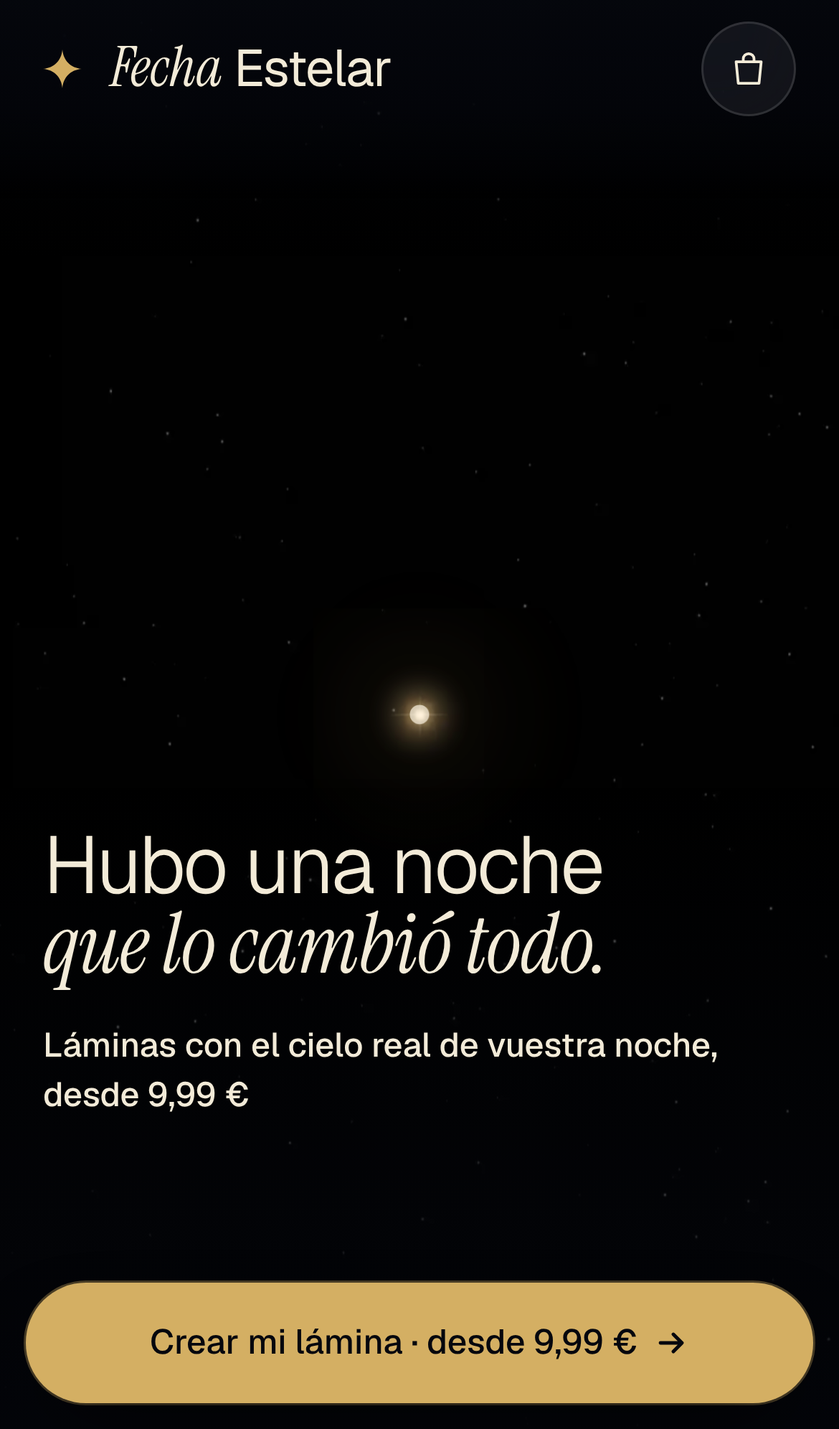
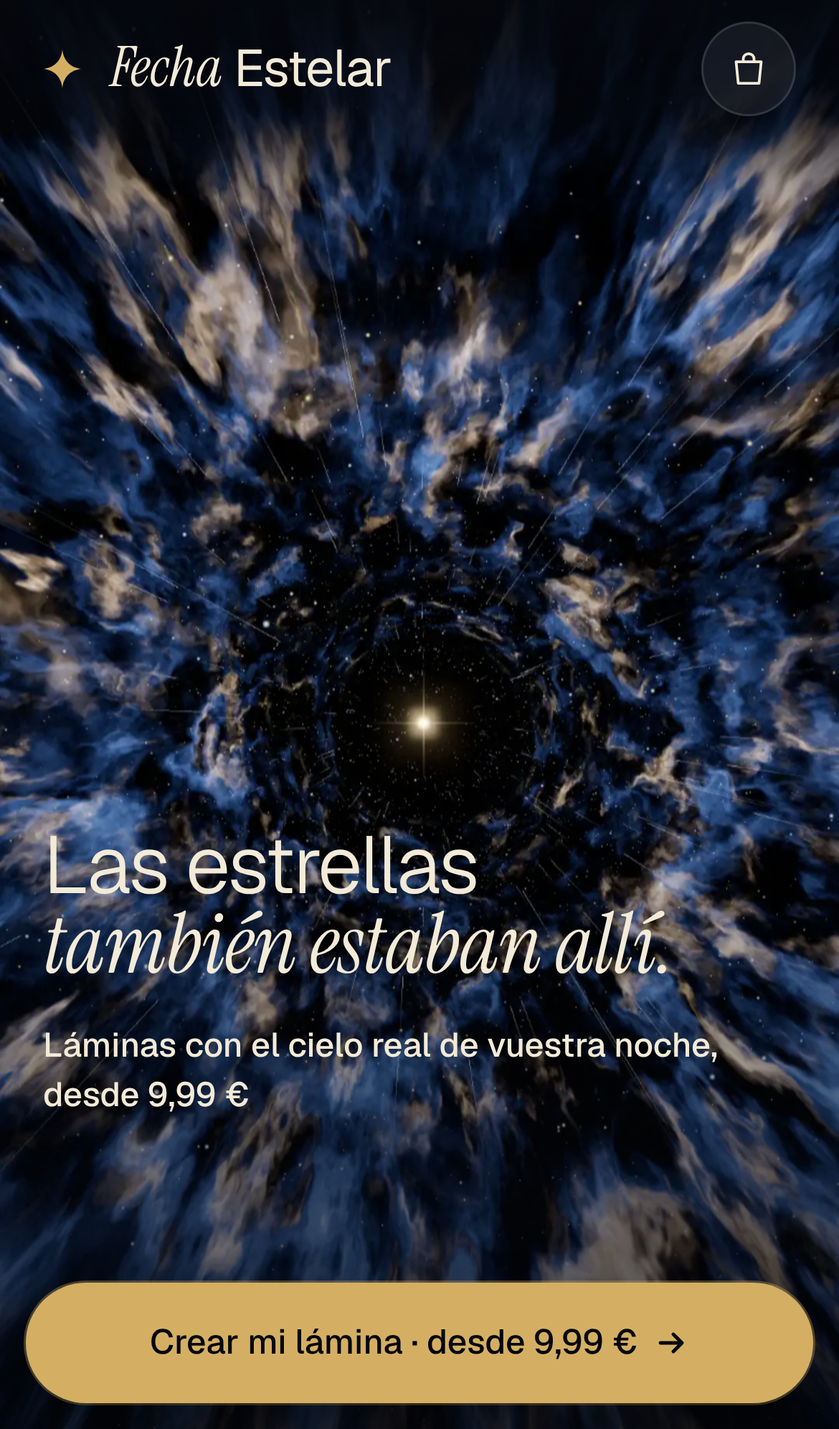
Journey opens in the star tunnel and runs in three screens (tunnel, Sun, Earth, sky, lámina)
Claude-Session: https://claude.ai/code/session_01FQHigv7GHbskPQEY8pBHfx

diff --git a/theme/assets/fe-app.js b/theme/assets/fe-app.js
@@ -1,5 +1,5 @@
-import{a as nt,b as at,d as it,e as rt,h as st,i as ot,k as j}from"./fe-chunk-WFGGIIFG.js";import bt from"lenis";import{gsap as K}from"gsap";import{ScrollTrigger as X}from"gsap/ScrollTrigger";var G=class{constructor(t,{maxFrames:i=1/0,onFrame:n}={}){this.url=t,this.maxFrames=i,this.onFrame=n,this.blobs=[],this.count=0,this.loaded=0,this.width=0,this.height=0,this.abort=new AbortController}async load(){let t=await fetch(this.url,{signal:this.abort.signal});if(!t.ok||!t.body)throw new Error("pack "+t.status);let i=t.body.getReader(),n=new Uint8Array(0),a=!1;for(;;){let{value:o,done:r}=await i.read();if(o){let l=new Uint8Array(n.length+o.length);l.set(n),l.set(o,n.length),n=l}let s=0;if(!a&&n.length>=10){if(String.fromCharCode(n[0],n[1],n[2],n[3])!=="FEPK")throw new Error("bad pack");let l=new DataView(n.buffer,n.byteOffset,n.byteLength);this.count=l.getUint16(4,!0),this.width=l.getUint16(6,!0),this.height=l.getUint16(8,!0),this.blobs=new Array(this.count).fill(null),a=!0,s=10}if(a){let l=new DataView(n.buffer,n.byteOffset,n.byteLength);for(;n.length-s>=6;){let w=l.getUint16(s,!0),b=l.getUint32(s+2,!0);if(n.length-s-6<b)break;if(this.blobs[w]=new Blob([n.subarray(s+6,s+6+b)],{type:"image/webp"}),s+=6+b,this.loaded++,this.onFrame?.(w),this.loaded>=this.maxFrames)return this.abort.abort(),this}n=n.slice(s)}if(r)break}return this}nearestLoaded(t){if(this.blobs[t])return t;for(let i=1;i<this.count;i++){if(this.blobs[t-i])return t-i;if(this.blobs[t+i])return t+i}return-1}},V=class{constructor(t,{cache:i=12}={}){this.canvas=t,this.ctx=t.getContext("2d",{alpha:!1}),this.pack=null,this.t=0,this.drawn=-1,this.cacheSize=i,this.bitmaps=new Map,this.pending=new Map,this.onReady=null,this.resize()}resize(){let t=Math.min(window.devicePixelRatio||1,2),i=this.canvas.getBoundingClientRect();this.canvas.width=Math.max(1,Math.round(i.width*t)),this.canvas.height=Math.max(1,Math.round(i.height*t)),this.flush(),this.drawn=-1,this.draw(this.t)}setPack(t){this.pack=t,this.flush(),this.drawn=-1}flush(){for(let t of this.bitmaps.values())t.close?.();this.bitmaps.clear()}target(){let t=this.pack,{width:i,height:n}=this.canvas,a=Math.min(1,Math.max(i/t.width,n/t.height));return{w:Math.round(t.width*a),h:Math.round(t.height*a)}}decode(t){if(this.bitmaps.has(t)||this.pending.has(t)||!this.pack.blobs[t])return;let{w:i,h:n}=this.target(),a=this.pack.blobs[t],o=createImageBitmap(a,{resizeWidth:i,resizeHeight:n,resizeQuality:"medium"}).catch(()=>createImageBitmap(a)).then(r=>{this.pending.delete(t),this.bitmaps.set(t,r),this.evict(),this.onReady?.(t)}).catch(()=>this.pending.delete(t));this.pending.set(t,o)}evict(){if(this.bitmaps.size<=this.cacheSize)return;let t=Math.round(this.t*(this.pack.count-1)),i=[...this.bitmaps.keys()].sort((n,a)=>Math.abs(a-t)-Math.abs(n-t));for(;this.bitmaps.size>this.cacheSize&&i.length;){let n=i.shift();n!==this.drawn&&(this.bitmaps.get(n)?.close?.(),this.bitmaps.delete(n))}}draw(t){let i=this.pack,n=t>=this.t?1:-1;if(this.t=t,!i||!i.count)return;let a=i.nearestLoaded(Math.round(t*(i.count-1)));if(a<0)return;this.decode(a);for(let d=1;d<=3;d++){let y=i.nearestLoaded(a+n*d);y>=0&&this.decode(y)}let o=a;if(!this.bitmaps.has(o)){let d=-1,y=1/0;for(let g of this.bitmaps.keys()){let h=Math.abs(g-a);h<y&&(y=h,d=g)}if(d<0)return;o=d}if(o===this.drawn)return;this.drawn=o;let r=this.bitmaps.get(o),{width:s,height:l}=this.canvas,w=Math.max(s/r.width,l/r.height),b=r.width*w,c=r.height*w;this.ctx.drawImage(r,(s-b)/2,(l-c)/2,b,c)}};var gt="attribute vec2 a; varying vec2 v; void main(){ v=a; gl_Position=vec4(a,0.,1.); }",vt=`precision highp float; varying vec2 v; uniform float uT; uniform float uDetail; uniform float uGain;
-${nt}${at}
+import{a as it,b as rt,d as st,e as ot,h as ct,i as lt,k as G}from"./fe-chunk-WFGGIIFG.js";import wt from"lenis";import{gsap as J}from"gsap";import{ScrollTrigger as j}from"gsap/ScrollTrigger";var V=class{constructor(t,{maxFrames:i=1/0,onFrame:n}={}){this.url=t,this.maxFrames=i,this.onFrame=n,this.blobs=[],this.count=0,this.loaded=0,this.width=0,this.height=0,this.abort=new AbortController}async load(){let t=await fetch(this.url,{signal:this.abort.signal});if(!t.ok||!t.body)throw new Error("pack "+t.status);let i=t.body.getReader(),n=new Uint8Array(0),a=!1;for(;;){let{value:o,done:r}=await i.read();if(o){let l=new Uint8Array(n.length+o.length);l.set(n),l.set(o,n.length),n=l}let s=0;if(!a&&n.length>=10){if(String.fromCharCode(n[0],n[1],n[2],n[3])!=="FEPK")throw new Error("bad pack");let l=new DataView(n.buffer,n.byteOffset,n.byteLength);this.count=l.getUint16(4,!0),this.width=l.getUint16(6,!0),this.height=l.getUint16(8,!0),this.blobs=new Array(this.count).fill(null),a=!0,s=10}if(a){let l=new DataView(n.buffer,n.byteOffset,n.byteLength);for(;n.length-s>=6;){let w=l.getUint16(s,!0),b=l.getUint32(s+2,!0);if(n.length-s-6<b)break;if(this.blobs[w]=new Blob([n.subarray(s+6,s+6+b)],{type:"image/webp"}),s+=6+b,this.loaded++,this.onFrame?.(w),this.loaded>=this.maxFrames)return this.abort.abort(),this}n=n.slice(s)}if(r)break}return this}nearestLoaded(t){if(this.blobs[t])return t;for(let i=1;i<this.count;i++){if(this.blobs[t-i])return t-i;if(this.blobs[t+i])return t+i}return-1}},K=class{constructor(t,{cache:i=12}={}){this.canvas=t,this.ctx=t.getContext("2d",{alpha:!1}),this.pack=null,this.t=0,this.drawn=-1,this.cacheSize=i,this.bitmaps=new Map,this.pending=new Map,this.onReady=null,this.resize()}resize(){let t=Math.min(window.devicePixelRatio||1,2),i=this.canvas.getBoundingClientRect();this.canvas.width=Math.max(1,Math.round(i.width*t)),this.canvas.height=Math.max(1,Math.round(i.height*t)),this.flush(),this.drawn=-1,this.draw(this.t)}setPack(t){this.pack=t,this.flush(),this.drawn=-1}flush(){for(let t of this.bitmaps.values())t.close?.();this.bitmaps.clear()}target(){let t=this.pack,{width:i,height:n}=this.canvas,a=Math.min(1,Math.max(i/t.width,n/t.height));return{w:Math.round(t.width*a),h:Math.round(t.height*a)}}decode(t){if(this.bitmaps.has(t)||this.pending.has(t)||!this.pack.blobs[t])return;let{w:i,h:n}=this.target(),a=this.pack.blobs[t],o=createImageBitmap(a,{resizeWidth:i,resizeHeight:n,resizeQuality:"medium"}).catch(()=>createImageBitmap(a)).then(r=>{this.pending.delete(t),this.bitmaps.set(t,r),this.evict(),this.onReady?.(t)}).catch(()=>this.pending.delete(t));this.pending.set(t,o)}evict(){if(this.bitmaps.size<=this.cacheSize)return;let t=Math.round(this.t*(this.pack.count-1)),i=[...this.bitmaps.keys()].sort((n,a)=>Math.abs(a-t)-Math.abs(n-t));for(;this.bitmaps.size>this.cacheSize&&i.length;){let n=i.shift();n!==this.drawn&&(this.bitmaps.get(n)?.close?.(),this.bitmaps.delete(n))}}draw(t){let i=this.pack,n=t>=this.t?1:-1;if(this.t=t,!i||!i.count)return;let a=i.nearestLoaded(Math.round(t*(i.count-1)));if(a<0)return;this.decode(a);for(let d=1;d<=3;d++){let y=i.nearestLoaded(a+n*d);y>=0&&this.decode(y)}let o=a;if(!this.bitmaps.has(o)){let d=-1,y=1/0;for(let g of this.bitmaps.keys()){let h=Math.abs(g-a);h<y&&(y=h,d=g)}if(d<0)return;o=d}if(o===this.drawn)return;this.drawn=o;let r=this.bitmaps.get(o),{width:s,height:l}=this.canvas,w=Math.max(s/r.width,l/r.height),b=r.width*w,c=r.height*w;this.ctx.drawImage(r,(s-b)/2,(l-c)/2,b,c)}};var bt="attribute vec2 a; varying vec2 v; void main(){ v=a; gl_Position=vec4(a,0.,1.); }",yt=`precision highp float; varying vec2 v; uniform float uT; uniform float uDetail; uniform float uGain;
+${it}${rt}
 vec3 toSRGB(vec3 c){ c=clamp(c,0.,1.); return mix(c*12.92, 1.055*pow(c,vec3(1./2.4))-0.055, step(0.0031308,c)); }
 void main(){
   vec2 p=v*1.06; float r=length(p);
@@ -8,4 +8,4 @@ void main(){
   vec3 c=toSRGB(sunSurface(vec3(p.x,p.y,mu),mu,uT,uDetail)*uGain);
   float a=smoothstep(1.0,0.965,r);
   gl_FragColor=vec4(c*a,a);
-}`,ct=e=>(e=Math.min(1,Math.max(0,e)),e*e*(3-2*e));function lt(e,t,i){let n=document.createElement("canvas");n.className="trip__sun",n.setAttribute("aria-hidden","true"),t.after(n);let a=n.getContext("webgl",{premultipliedAlpha:!0,alpha:!0,antialias:!1});if(!a)return n.remove(),null;let o=(m,x)=>{let M=a.createShader(m);return a.shaderSource(M,x),a.compileShader(M),M},r=a.createProgram();if(a.attachShader(r,o(a.VERTEX_SHADER,gt)),a.attachShader(r,o(a.FRAGMENT_SHADER,vt)),a.linkProgram(r),!a.getProgramParameter(r,a.LINK_STATUS))return n.remove(),null;a.useProgram(r),a.bindBuffer(a.ARRAY_BUFFER,a.createBuffer()),a.bufferData(a.ARRAY_BUFFER,new Float32Array([-1,-1,1,-1,-1,1,1,1]),a.STATIC_DRAW);let s=a.getAttribLocation(r,"a");a.enableVertexAttribArray(s),a.vertexAttribPointer(s,2,a.FLOAT,!1,0,0);let l=a.getUniformLocation(r,"uT"),w=a.getUniformLocation(r,"uDetail"),b=a.getUniformLocation(r,"uGain");a.uniform1f(b,1.2);let c=null,d=0,y=!1,g=0,h=0,f=0,S=0,L={p:0,pack:null};fetch(i).then(m=>m.json()).then(m=>{c=m}).catch(()=>{});let u=m=>{let x=m*(c.frames-1)-c.from,M=c.sun.length;if(x<0||x>M-1)return null;let F=Math.floor(x),T=x-F,A=c.sun[F],I=c.sun[Math.min(M-1,F+1)];return{x:A[0]+(I[0]-A[0])*T,y:A[1]+(I[1]-A[1])*T,r:A[2]+(I[2]-A[2])*T,T:A[3]+(I[3]-A[3])*T,vis:A[4]&&I[4]}},v=m=>{if(d=y?requestAnimationFrame(v):0,!y||m-f<32)return;f=m;let x=u(L.p);if(!x)return;let M=L.pack,F=e.clientWidth,T=e.clientHeight,A=Math.max(F/M.width,T/M.height),I=M.width*A,z=M.height*A,D=(F-I)/2+x.x*I,J=(T-z)/2+x.y*z,p=x.r*z*1.06,R=Math.min(devicePixelRatio||1,1.25),E=Math.ceil(p*2*R);Math.abs(E-S)>S*.08&&(S=E,n.width=n.height=E,a.viewport(0,0,E,E)),n.style.width=n.style.height=`${(p*2).toFixed(1)}px`,n.style.transform=`translate(${(D-p).toFixed(1)}px, ${(J-p).toFixed(1)}px)`,g+=h?(m-h)/1e3:0,h=m,a.uniform1f(l,x.T+g*1.4),a.uniform1f(w,.6*Math.min(1,Math.max(0,(p*2-60)/200))),a.drawArrays(a.TRIANGLE_STRIP,0,4)};return{update(m,x){if(!c||!x?.width)return;L.p=m,L.pack=x;let M=u(m),F=M&&M.vis?ct((m-.462)/.025)*(1-ct((m-.548)/.03)):0;n.style.opacity=F.toFixed(3);let T=F>.001;T&&!y&&(y=!0,h=0,g=0,d||(d=requestAnimationFrame(v))),!T&&y&&(y=!1)}}}K.registerPlugin(X);var k=(e,t=document)=>t.querySelector(e),$=(e,t=document)=>[...t.querySelectorAll(e)],U=(e,t=0,i=1)=>Math.min(i,Math.max(t,e)),dt=e=>e<.5?4*e*e*e:1-Math.pow(-2*e+2,3)/2,ut=e=>matchMedia(e).matches,ft=document.documentElement,C=ut("(prefers-reduced-motion: reduce)"),N=ut("(hover: hover) and (pointer: fine)"),ht=navigator.connection||{},Q=!!ht.saveData||/2g/.test(ht.effectiveType||"");ft.classList.add("fe-js");C&&ft.classList.add("fe-reduced");window.__feBoot=!0;var tt=e=>e.replace(/(\d) (?=€|días|cm|h\b)/g,"$1\xA0");{let e=document.createTreeWalker(document.body,NodeFilter.SHOW_TEXT);for(let t=e.nextNode();t;t=e.nextNode())/\d (€|días|cm|h\b)/.test(t.data)&&(t.data=tt(t.data))}var q=null;!C&&N&&(q=new bt({lerp:.085,smoothWheel:!0}),q.on("scroll",X.update),K.ticker.add(e=>q.raf(e*1e3)),K.ticker.lagSmoothing(0));document.addEventListener("click",e=>{let i=e.target.closest('a[href^="#"]')?.getAttribute("href").slice(1),n=i&&document.getElementById(i);n&&(e.preventDefault(),q?q.scrollTo(n,{duration:1.6,easing:a=>1-Math.pow(1-a,4)}):n.scrollIntoView({behavior:C?"auto":"smooth"}),history.replaceState(null,"","#"+i),n.setAttribute("tabindex","-1"),n.focus({preventScroll:!0}))});function yt(e){let t=k(".lam__card",e),i=0,n=0,a=0,o=0,r=0,s=0,l=null,w=0,b=performance.now(),c=120,d=14,y=h=>{let f=Math.min(.032,(h-b)/1e3);b=h;let S=l?0:Math.sin(h/1600)*3;a+=(c*((l?r:0)+S*.4-i)-d*a)*f,i+=a*f,o+=(c*((l?s:0)+S-n)-d*o)*f,n+=o*f,t.style.transform=`rotateX(${i.toFixed(2)}deg) rotateY(${n.toFixed(2)}deg)`,t.style.setProperty("--sheen",(n/18).toFixed(3)),w=e.hasAttribute("data-live")?requestAnimationFrame(y):0};e.addEventListener("pointerdown",h=>{l={x:h.clientX,y:h.clientY},e.setPointerCapture(h.pointerId)}),e.addEventListener("pointermove",h=>{if(l)s=U((h.clientX-l.x)/6,-24,24),r=U(-(h.clientY-l.y)/8,-14,14);else if(N){let f=e.getBoundingClientRect();r=0,s=0,n+=((h.clientX-f.left)/f.width-.5)*.6}});let g=()=>{l=null};return e.addEventListener("pointerup",g),e.addEventListener("pointercancel",g),{start(){!w&&!C&&(b=performance.now(),w=requestAnimationFrame(y))}}}var Z=[0,.27,.5,.68,.85,1];function wt(e){let t=!1,i=0,n=0,a=0,o=0,r=!1,s=null,l=scrollY,w=1,b=0,c=()=>e.getBoundingClientRect().top+scrollY,d=()=>e.offsetHeight-innerHeight,y=()=>U((scrollY-c())/d()),g=()=>{let u=e.getBoundingClientRect();return u.top<=1&&u.bottom>=innerHeight-1},h=u=>{let v=y();return u>0?Z.find(m=>m>v+.012):[...Z].reverse().find(m=>m<v-.012)},f=u=>{let v=scrollY,m=Math.round(c()+u*d()),x=Math.abs(m-v);if(x<2)return;let M=Math.min(1700,700+x/innerHeight*520);t=!0;let F=()=>{t=!1,b=o=performance.now()};if(q){q.scrollTo(m,{duration:M/1e3,easing:dt,lock:!0,force:!0,onComplete:F});return}let T=performance.now();cancelAnimationFrame(i);let A=I=>{let z=U((I-T)/M);scrollTo(0,v+(m-v)*dt(z)),z<1?i=requestAnimationFrame(A):F()};i=requestAnimationFrame(A)},S=u=>{let v=h(u);return v==null?!1:(f(v),!0)};addEventListener("wheel",u=>{if(u.ctrlKey||!g())return;let v=Math.sign(u.deltaY);if(!v)return;let m=performance.now(),x=m-n,M=Math.abs(u.deltaY),F=x>600&&(a<8||M>=50&&a>=50)||x>1400||x>160&&M>a*1.15||M>a*2&&M>14;n=m,a=M,F&&!t&&m-o>250&&(r=!1),!(!t&&!r&&h(v)==null)&&(u.preventDefault(),u.stopImmediatePropagation(),!t&&!r&&(r=S(v)))},{passive:!1,capture:!0}),addEventListener("touchstart",u=>{s=u.touches.length===1?{x:u.touches[0].clientX,y:u.touches[0].clientY,done:!1,free:!1}:null},{passive:!0}),addEventListener("touchmove",u=>{if(!s||s.free||!g())return;let v=s.y-u.touches[0].clientY,m=s.x-u.touches[0].clientX;if(!s.done&&!t&&Math.abs(v)>2&&h(Math.sign(v))==null){s.free=!0;return}u.cancelable&&u.preventDefault(),!s.done&&!t&&Math.abs(v)>28&&Math.abs(v)>Math.abs(m)*1.2&&(s.done=S(Math.sign(v)))},{passive:!1}),addEventListener("touchend",()=>{s=null},{passive:!0}),addEventListener("scroll",()=>{let u=scrollY;u!==l&&(w=Math.sign(u-l),l=u,b=performance.now())},{passive:!0});let L=()=>{if(requestAnimationFrame(L),t||s||performance.now()-b<170||performance.now()-n<200||!g())return;let u=y();if(Z.some(m=>Math.abs(m-u)<.006))return;let v=h(w)??h(-w);v!=null&&f(v)};requestAnimationFrame(L)}function Mt(e){let t=k(".trip__stage",e),i=k(".trip__film",e),n=k(".lam",e),a=JSON.parse(e.dataset.example);k("[data-lam]",e).innerHTML=j({...a,city:void 0,cityName:a.city,id:"lam"});let o=$("[data-beat]",e);o.forEach(p=>{p.inert=!p.hasAttribute("data-on")});let r=innerHeight>innerWidth,s=()=>{e.classList.add("is-still");let p=k(".trip__still",e);p.src=r?p.dataset.srcM:p.dataset.srcD},l=(()=>{try{let p=document.createElement("canvas");return!!(p.getContext("webgl2")||p.getContext("webgl"))}catch{return!1}})();if(C||!l&&!window.createImageBitmap)return s();let w=yt(n),b=0,c=0,d=!0,y=!0,g=null,h=null,f=null,S=null;X.create({trigger:e,start:"top top",end:"bottom bottom",onUpdate:p=>{b=p.progress,d=!0}}),new IntersectionObserver(([p])=>{y=p.isIntersecting}).observe(e);let L=()=>{if(g==="frames")return;f?.dispose(),f=null,g="frames",e.dataset.mode=g;let p=r?e.dataset.framesM:e.dataset.framesD;if(i.dataset.used){let E=i.cloneNode();i.replaceWith(E),i=E}h=new V(i,{cache:r?10:14}),h.onReady=()=>{d=!0},e.__player=h;let R=new G(p,{maxFrames:Q?24:1/0,onFrame:()=>{d=!0}});h.setPack(R),R.load().catch(()=>{R.loaded||s()}),!Q&&!S&&(S=lt(t,i,e.dataset.media+(r?"fe-sun-m.json":"fe-sun-d.json")))},u=async()=>{g="live",e.dataset.mode=g;try{let{createTunnel:p}=await import("./fe-chunk-JT7U6F5Q.js");i.dataset.used="1";let R=Math.min(devicePixelRatio||1,1.5);f=p({canvas:i,media:e.dataset.media,quality:"live",example:a,poster:r?{h:.5,cy:.42}:{h:.62,cy:.47,cx:.64}}),f.resize(t.clientWidth,t.clientHeight,R),await f.ready,d=!0}catch{L()}},v=new URLSearchParams(location.search).get("fe"),m=v==="live"||v==="probe"||v!=="film"&&!r&&N&&innerWidth>=900&&l&&!Q&&(navigator.hardwareConcurrency||8)>=6,x=()=>m?u():L();document.readyState==="complete"?setTimeout(x,50):addEventListener("load",()=>setTimeout(x,50),{once:!0});let M=()=>{let p=h?.pack;if(!p?.width)return;let R=r?{h:.5,cy:.42,cx:.5}:{h:.62,cy:.47,cx:.64},E=t.clientWidth,B=t.clientHeight,Y=Math.max(E/p.width,B/p.height),H=p.width*Y,O=p.height*Y;n.style.setProperty("--lam-h",(R.h*O/B).toFixed(4)),n.style.setProperty("--lam-cy",((R.cy*O+(B-O)/2)/B).toFixed(4)),n.style.setProperty("--lam-cx",((R.cx*H+(E-H)/2)/E).toFixed(4))},F=k(".trip__point",e),T=k(".trip__progress i",e),A={},I=0,z=0,D=[],J=p=>{if(!y)return;let R=b-c;if(c=Math.abs(R)<2e-4?b:c+R*(N?.14:.2),!d&&c===b&&g!=="live")return;if(d=!1,g==="frames"&&(h.draw(c),S?.update(c,h.pack),!n.dataset.fit&&h.pack?.width&&(n.dataset.fit=1,M())),g==="live"&&f){let _=p-I;if(I=p,_>0&&_<3e3&&v!=="live"){D.push(_),D.length>60&&D.shift();let W=et=>D.slice(-et).reduce((mt,pt)=>mt+pt,0)/et;(D.length>=20&&W(20)>60||D.length===60&&W(60)>34)&&(D.length=0,L())}g==="live"&&(c!==b||(z++&1)===0)&&f.frameAt(c,p/1e3)}let E=(1-U((c-.02)/.06)).toFixed(3),B=c.toFixed(4);E!==A.pt&&(F.style.opacity=E,F.style.visibility=E==="0.000"?"hidden":"",A.pt=E),B!==A.bar&&T&&(T.style.transform=`scaleX(${B})`,A.bar=B);let Y=U((c-.965)/.03),H=Y.toFixed(3);H!==A.cr&&(n.style.opacity=H,A.cr=H),Y>.98!==n.hasAttribute("data-live")&&(n.toggleAttribute("data-live",Y>.98),Y>.98&&w.start());let O=c*100;for(let _ of o){let W=O>=+_.dataset.from&&O<+_.dataset.to;W!==_.hasAttribute("data-on")&&(_.toggleAttribute("data-on",W),_.inert=!W)}};K.ticker.add(p=>J(p*1e3)),wt(e),new ResizeObserver(()=>{h?.resize(),g==="frames"&&M(),f?.resize(t.clientWidth,t.clientHeight,Math.min(devicePixelRatio||1,1.5)),d=!0}).observe(t)}var P={names:"",phrase:"",city:"Madrid",date:"2021-05-14",time:"22:00",style:"noche"},xt=e=>{let t=e.replace(/\D/g,"").slice(0,8);return[t.slice(0,2),t.slice(2,4),t.slice(4)].filter(Boolean).join("/")},At=e=>{let t=e.replace(/\D/g,"").slice(0,4);return t.length>2?`${t.slice(0,2)}:${t.slice(2)}`:t},Ft=e=>{let t=/^(\d{2})\/(\d{2})\/(\d{4})$/.exec(e);if(!t)return null;let[,i,n,a]=t.map(Number),o=new Date(Date.UTC(a,n-1,i));return a<1900||a>2100||o.getUTCMonth()!==n-1||o.getUTCDate()!==i?null:`${t[3]}-${t[2]}-${t[1]}`},Et=e=>/^([01]\d|2[0-3]):[0-5]\d$/.test(e)?e:null;function kt(e){let t=k("[data-form]",e),i=k("[data-preview]",e),n=k("[data-coords]",e);if(!t)return;let a=t.elements.city,o=a.value||"Madrid";a.innerHTML=it.map(c=>`<option${c[0]===o?" selected":""}>${c[0]}</option>`).join("");let r=t.elements.date,s=t.elements.time,l=0,w=()=>{l=0;let c=t.elements,d=Ft(r.value),y=Et(s.value);r.setAttribute("aria-invalid",String(r.value.length===10&&!d)),s.setAttribute("aria-invalid",String(s.value.length===5&&!y)),Object.assign(P,{names:c.names.value.trim(),phrase:c.phrase.value.trim(),city:c.city.value,date:d||P.date,time:y||P.time,style:t.querySelector("[name=style]:checked")?.value||"noche"}),i.innerHTML=j({...P,names:P.names||"Vuestros nombres",cityName:P.city,id:"cp"});let g=rt(P.city);n.textContent=tt(`${g[0]} \xB7 ${ot(g[1],g[2])} \xB7 ${st(P.date)} \xB7 ${P.time}`)},b=(c,d)=>c.addEventListener("input",y=>{if(y.inputType?.startsWith("delete"))return;let g=d(c.value);g!==c.value&&(c.value=g)});b(r,xt),b(s,At),t.addEventListener("input",()=>{l||(l=requestAnimationFrame(w))}),t.addEventListener("submit",c=>c.preventDefault()),C?w():new IntersectionObserver(([c],d)=>{c.isIntersecting&&(w(),d.disconnect())},{rootMargin:"600px"}).observe(e)}function Lt(e){let t=k("[data-total]",e),i=k("[data-buy]",e),n=k("[data-urge]",e),a=()=>{let r=k("input[name=format]:checked",e);if(!r)return;t.textContent=tt(r.dataset.price),e.toggleAttribute("data-digital",r.hasAttribute("data-digital"));let s=new URL(e.dataset.base,location.href);r.value&&s.searchParams.set("variant",r.value),i.href=s.pathname+s.search};e.addEventListener("change",a),a();let o=e.dataset.deadline;if(/^\d{4}-\d{2}-\d{2}$/.test(o)){let r=new Date(o+"T23:59:59"),[s,l,w]=o.split("-");n.textContent=Date.now()>r?n.dataset.after:n.dataset.before.replace("[FECHA]",`${w}/${l}/${s}`)}}function St(){let e=i=>{let n=i.dataset;i.innerHTML=j({names:n.names,phrase:n.phrase,cityName:n.city,date:n.date,time:n.time,style:n.style,id:"m"+Math.random().toString(36).slice(2,6)})};if(C)return $("[data-mini]").forEach(e);let t=new IntersectionObserver(i=>i.forEach(n=>{n.isIntersecting&&(e(n.target),t.unobserve(n.target))}),{rootMargin:"600px"});$("[data-mini]").forEach(i=>t.observe(i))}function Tt(){if(!C){if(!N){$(".moments").forEach(e=>{let t=$("[data-tilt]",e),i=0,n=()=>{i=0;let a=innerWidth/2;for(let o of t){let r=o.getBoundingClientRect(),s=U((r.left+r.width/2-a)/innerWidth,-1,1);o.style.transform=`rotateY(${(-s*16).toFixed(2)}deg) scale(${(1-Math.abs(s)*.05).toFixed(3)})`}};e.addEventListener("scroll",()=>{i||(i=requestAnimationFrame(n))},{passive:!0}),n()});return}$("[data-tilt]").forEach(e=>{let t=0,i=0,n=0,a=0,o=0,r=0,s=0,l=0,w=c=>{let d=Math.min(.032,(c-l)/1e3);l=c,n+=(170*(o-t)-18*n)*d,t+=n*d,a+=(170*(r-i)-18*a)*d,i+=a*d,e.style.transform=`rotateX(${t.toFixed(2)}deg) rotateY(${i.toFixed(2)}deg)`,s=Math.abs(o-t)+Math.abs(r-i)+Math.abs(n)+Math.abs(a)>.02?requestAnimationFrame(w):0},b=()=>{s||(l=performance.now(),s=requestAnimationFrame(w))};e.addEventListener("pointermove",c=>{let d=e.getBoundingClientRect();r=((c.clientX-d.left)/d.width-.5)*12,o=-((c.clientY-d.top)/d.height-.5)*10,b()}),e.addEventListener("pointerleave",()=>{o=r=0,b()})})}}function Rt(){!N||C||$("[data-magnetic]").forEach(e=>{let t=0,i=0,n=0,a=0,o=0,r=()=>{t+=(n-t)*.2,i+=(a-i)*.2,e.style.translate=`${t.toFixed(2)}px ${i.toFixed(2)}px`,o=Math.abs(n-t)+Math.abs(a-i)>.05?requestAnimationFrame(r):0};e.addEventListener("pointermove",s=>{let l=e.getBoundingClientRect();n=(s.clientX-l.left-l.width/2)*.22,a=(s.clientY-l.top-l.height/2)*.3,o||(o=requestAnimationFrame(r))}),e.addEventListener("pointerleave",()=>{n=a=0,o||(o=requestAnimationFrame(r))})})}function $t(e){let t=e.getContext("2d"),i,n,a,o=[],r=!1,s=.6,l=scrollY,w=()=>{a=Math.min(devicePixelRatio||1,2),i=e.clientWidth,n=e.clientHeight,e.width=i*a,e.height=n*a,t.setTransform(a,0,0,a,0,0),o=Array.from({length:Math.round(Math.min(700,i*n/1600))},()=>({a:Math.random()*6.283,z:Math.random(),g:Math.random()<.18})),C&&b(0)},b=d=>{t.fillStyle=C?"#000":"rgba(0,0,0,0.28)",t.fillRect(0,0,i,n);let y=i/2,g=n*.42,h=Math.hypot(i,n)*.6;for(let f of o){let S=f.z;if(f.z-=d,f.z<=.02){f.z+=1;continue}let L=h*Math.pow(S,2.2),u=h*Math.pow(f.z,2.2),v=1-f.z;t.strokeStyle=f.g?`rgba(212,175,99,${(.15+.8*(1-v)).toFixed(3)})`:`rgba(243,235,216,${(.12+.75*(1-v)).toFixed(3)})`,t.lineWidth=.5+1.4*f.z,t.beginPath(),t.moveTo(y+Math.cos(f.a)*L,g+Math.sin(f.a)*L),t.lineTo(y+Math.cos(f.a)*Math.min(u,L-.8),g+Math.sin(f.a)*Math.min(u,L-.8)),t.stroke()}},c=()=>{if(!r)return;let d=Math.abs(scrollY-l);l=scrollY,s+=(.6+Math.min(d,120)/12-s)*.08,b(.0016*s),requestAnimationFrame(c)};w(),new ResizeObserver(w).observe(e),C||new IntersectionObserver(([d])=>{let y=r;r=d.isIntersecting,r&&!y&&c()}).observe(e)}function It(){if(C){$("[data-reveal]").forEach(t=>t.classList.add("is-in"));return}let e=new IntersectionObserver(t=>t.forEach(i=>{i.isIntersecting&&(i.target.classList.add("is-in"),e.unobserve(i.target))}),{threshold:.25});$("[data-reveal]").forEach(t=>e.observe(t))}function Ct(){let e=$('.pills a[href^="#"]'),t=new Map(e.map(n=>[n.getAttribute("href").slice(1),n])),i=new IntersectionObserver(n=>n.forEach(a=>{let o=t.get(a.target.id);o&&a.isIntersecting&&e.forEach(r=>r.setAttribute("aria-current",String(r===o)))}),{rootMargin:"-45% 0px -50% 0px"});t.forEach((n,a)=>{let o=document.getElementById(a);o&&i.observe(o)})}function Dt(){let e=k("[data-bar]"),t=k("[data-creator]");!e||!t||new IntersectionObserver(([i])=>{e.toggleAttribute("data-away",i.isIntersecting)},{threshold:.12}).observe(t)}$("[data-trip]").forEach(Mt);$("[data-creator]").forEach(kt);$("[data-formats]").forEach(Lt);$("[data-warp]").forEach($t);St();Tt();Rt();It();Ct();Dt();addEventListener("load",()=>X.refresh());document.fonts?.ready.then(()=>X.refresh());
+}`,dt=e=>(e=Math.min(1,Math.max(0,e)),e*e*(3-2*e));function ht(e,t,i){let n=document.createElement("canvas");n.className="trip__sun",n.setAttribute("aria-hidden","true"),t.after(n);let a=n.getContext("webgl",{premultipliedAlpha:!0,alpha:!0,antialias:!1});if(!a)return n.remove(),null;let o=(m,x)=>{let M=a.createShader(m);return a.shaderSource(M,x),a.compileShader(M),M},r=a.createProgram();if(a.attachShader(r,o(a.VERTEX_SHADER,bt)),a.attachShader(r,o(a.FRAGMENT_SHADER,yt)),a.linkProgram(r),!a.getProgramParameter(r,a.LINK_STATUS))return n.remove(),null;a.useProgram(r),a.bindBuffer(a.ARRAY_BUFFER,a.createBuffer()),a.bufferData(a.ARRAY_BUFFER,new Float32Array([-1,-1,1,-1,-1,1,1,1]),a.STATIC_DRAW);let s=a.getAttribLocation(r,"a");a.enableVertexAttribArray(s),a.vertexAttribPointer(s,2,a.FLOAT,!1,0,0);let l=a.getUniformLocation(r,"uT"),w=a.getUniformLocation(r,"uDetail"),b=a.getUniformLocation(r,"uGain");a.uniform1f(b,1.2);let c=null,d=0,y=!1,g=0,h=0,f=0,S=0,L={p:0,pack:null};fetch(i).then(m=>m.json()).then(m=>{c=m}).catch(()=>{});let u=m=>{let x=m*(c.frames-1)-c.from,M=c.sun.length;if(x<0||x>M-1)return null;let E=Math.floor(x),T=x-E,A=c.sun[E],I=c.sun[Math.min(M-1,E+1)];return{x:A[0]+(I[0]-A[0])*T,y:A[1]+(I[1]-A[1])*T,r:A[2]+(I[2]-A[2])*T,T:A[3]+(I[3]-A[3])*T,vis:A[4]&&I[4]}},v=m=>{if(d=y?requestAnimationFrame(v):0,!y||m-f<32)return;f=m;let x=u(L.p);if(!x)return;let M=L.pack,E=e.clientWidth,T=e.clientHeight,A=Math.max(E/M.width,T/M.height),I=M.width*A,B=M.height*A,D=(E-I)/2+x.x*I,Q=(T-B)/2+x.y*B,p=x.r*B*1.06,R=Math.min(devicePixelRatio||1,1.25),F=Math.ceil(p*2*R);Math.abs(F-S)>S*.08&&(S=F,n.width=n.height=F,a.viewport(0,0,F,F)),n.style.width=n.style.height=`${(p*2).toFixed(1)}px`,n.style.transform=`translate(${(D-p).toFixed(1)}px, ${(Q-p).toFixed(1)}px)`,g+=h?(m-h)/1e3:0,h=m,a.uniform1f(l,x.T+g*1.4),a.uniform1f(w,.6*Math.min(1,Math.max(0,(p*2-60)/200))),a.drawArrays(a.TRIANGLE_STRIP,0,4)};return{update(m,x){if(!c||!x?.width)return;L.p=m,L.pack=x;let M=u(m),E=M&&M.vis?dt((m-.462)/.025)*(1-dt((m-.548)/.03)):0;n.style.opacity=E.toFixed(3);let T=E>.001;T&&!y&&(y=!0,h=0,g=0,d||(d=requestAnimationFrame(v))),!T&&y&&(y=!1)}}}J.registerPlugin(j);var k=(e,t=document)=>t.querySelector(e),$=(e,t=document)=>[...t.querySelectorAll(e)],Y=(e,t=0,i=1)=>Math.min(i,Math.max(t,e)),ut=e=>e<.5?4*e*e*e:1-Math.pow(-2*e+2,3)/2,mt=e=>matchMedia(e).matches,pt=document.documentElement,C=mt("(prefers-reduced-motion: reduce)"),X=mt("(hover: hover) and (pointer: fine)"),ft=navigator.connection||{},Z=!!ft.saveData||/2g/.test(ft.effectiveType||"");pt.classList.add("fe-js");C&&pt.classList.add("fe-reduced");window.__feBoot=!0;var et=e=>e.replace(/(\d) (?=€|días|cm|h\b)/g,"$1\xA0");{let e=document.createTreeWalker(document.body,NodeFilter.SHOW_TEXT);for(let t=e.nextNode();t;t=e.nextNode())/\d (€|días|cm|h\b)/.test(t.data)&&(t.data=et(t.data))}var H=null;!C&&X&&(H=new wt({lerp:.085,smoothWheel:!0}),H.on("scroll",j.update),J.ticker.add(e=>H.raf(e*1e3)),J.ticker.lagSmoothing(0));document.addEventListener("click",e=>{let i=e.target.closest('a[href^="#"]')?.getAttribute("href").slice(1),n=i&&document.getElementById(i);n&&(e.preventDefault(),H?H.scrollTo(n,{duration:1.6,easing:a=>1-Math.pow(1-a,4)}):n.scrollIntoView({behavior:C?"auto":"smooth"}),history.replaceState(null,"","#"+i),n.setAttribute("tabindex","-1"),n.focus({preventScroll:!0}))});function Mt(e){let t=k(".lam__card",e),i=0,n=0,a=0,o=0,r=0,s=0,l=null,w=0,b=performance.now(),c=120,d=14,y=h=>{let f=Math.min(.032,(h-b)/1e3);b=h;let S=l?0:Math.sin(h/1600)*3;a+=(c*((l?r:0)+S*.4-i)-d*a)*f,i+=a*f,o+=(c*((l?s:0)+S-n)-d*o)*f,n+=o*f,t.style.transform=`rotateX(${i.toFixed(2)}deg) rotateY(${n.toFixed(2)}deg)`,t.style.setProperty("--sheen",(n/18).toFixed(3)),w=e.hasAttribute("data-live")?requestAnimationFrame(y):0};e.addEventListener("pointerdown",h=>{l={x:h.clientX,y:h.clientY},e.setPointerCapture(h.pointerId)}),e.addEventListener("pointermove",h=>{if(l)s=Y((h.clientX-l.x)/6,-24,24),r=Y(-(h.clientY-l.y)/8,-14,14);else if(X){let f=e.getBoundingClientRect();r=0,s=0,n+=((h.clientX-f.left)/f.width-.5)*.6}});let g=()=>{l=null};return e.addEventListener("pointerup",g),e.addEventListener("pointercancel",g),{start(){!w&&!C&&(b=performance.now(),w=requestAnimationFrame(y))}}}var O=[0,.3,.55,.78,1],tt=[.27,.5,.68,.85,1],xt=e=>{for(let t=0;t<4;t++)if(e<=O[t+1])return tt[t]+(tt[t+1]-tt[t])*Y((e-O[t])/(O[t+1]-O[t]));return 1};function At(e){let t=!1,i=0,n=0,a=0,o=0,r=!1,s=null,l=scrollY,w=1,b=0,c=()=>e.getBoundingClientRect().top+scrollY,d=()=>e.offsetHeight-innerHeight,y=()=>Y((scrollY-c())/d()),g=()=>{let u=e.getBoundingClientRect();return u.top<=1&&u.bottom>=innerHeight-1},h=u=>{let v=y();return u>0?O.find(m=>m>v+.012):[...O].reverse().find(m=>m<v-.012)},f=u=>{let v=scrollY,m=Math.round(c()+u*d()),x=Math.abs(m-v);if(x<2)return;let M=Math.min(1700,700+x/innerHeight*520);t=!0;let E=()=>{t=!1,b=o=performance.now()};if(H){H.scrollTo(m,{duration:M/1e3,easing:ut,lock:!0,force:!0,onComplete:E});return}let T=performance.now();cancelAnimationFrame(i);let A=I=>{let B=Y((I-T)/M);scrollTo(0,v+(m-v)*ut(B)),B<1?i=requestAnimationFrame(A):E()};i=requestAnimationFrame(A)},S=u=>{let v=h(u);return v==null?!1:(f(v),!0)};addEventListener("wheel",u=>{if(u.ctrlKey||!g())return;let v=Math.sign(u.deltaY);if(!v)return;let m=performance.now(),x=m-n,M=Math.abs(u.deltaY),E=x>600&&(a<8||M>=50&&a>=50)||x>1400||x>160&&M>a*1.15||M>a*2&&M>14;n=m,a=M,E&&!t&&m-o>250&&(r=!1),!(!t&&!r&&h(v)==null)&&(u.preventDefault(),u.stopImmediatePropagation(),!t&&!r&&(r=S(v)))},{passive:!1,capture:!0}),addEventListener("touchstart",u=>{s=u.touches.length===1?{x:u.touches[0].clientX,y:u.touches[0].clientY,done:!1,free:!1}:null},{passive:!0}),addEventListener("touchmove",u=>{if(!s||s.free||!g())return;let v=s.y-u.touches[0].clientY,m=s.x-u.touches[0].clientX;if(!s.done&&!t&&Math.abs(v)>2&&h(Math.sign(v))==null){s.free=!0;return}u.cancelable&&u.preventDefault(),!s.done&&!t&&Math.abs(v)>28&&Math.abs(v)>Math.abs(m)*1.2&&(s.done=S(Math.sign(v)))},{passive:!1}),addEventListener("touchend",()=>{s=null},{passive:!0}),addEventListener("scroll",()=>{let u=scrollY;u!==l&&(w=Math.sign(u-l),l=u,b=performance.now())},{passive:!0});let L=()=>{if(requestAnimationFrame(L),t||s||performance.now()-b<170||performance.now()-n<200||!g())return;let u=y();if(O.some(m=>Math.abs(m-u)<.006))return;let v=h(w)??h(-w);v!=null&&f(v)};requestAnimationFrame(L)}function Ft(e){let t=k(".trip__stage",e),i=k(".trip__film",e),n=k(".lam",e),a=JSON.parse(e.dataset.example);k("[data-lam]",e).innerHTML=G({...a,city:void 0,cityName:a.city,id:"lam"});let o=$("[data-beat]",e);o.forEach(p=>{p.inert=!p.hasAttribute("data-on")});let r=innerHeight>innerWidth,s=()=>{e.classList.add("is-still");let p=k(".trip__still",e);p.src=r?p.dataset.srcM:p.dataset.srcD},l=(()=>{try{let p=document.createElement("canvas");return!!(p.getContext("webgl2")||p.getContext("webgl"))}catch{return!1}})();if(C||!l&&!window.createImageBitmap)return s();let w=Mt(n),b=0,c=0,d=!0,y=!0,g=null,h=null,f=null,S=null;j.create({trigger:e,start:"top top",end:"bottom bottom",onUpdate:p=>{b=p.progress,d=!0}}),new IntersectionObserver(([p])=>{y=p.isIntersecting}).observe(e);let L=()=>{if(g==="frames")return;f?.dispose(),f=null,g="frames",e.dataset.mode=g;let p=r?e.dataset.framesM:e.dataset.framesD;if(i.dataset.used){let F=i.cloneNode();i.replaceWith(F),i=F}h=new K(i,{cache:r?10:14}),h.onReady=()=>{d=!0},e.__player=h;let R=new V(p,{maxFrames:Z?24:1/0,onFrame:()=>{d=!0}});h.setPack(R),R.load().catch(()=>{R.loaded||s()}),!Z&&!S&&(S=ht(t,i,e.dataset.media+(r?"fe-sun-m.json":"fe-sun-d.json")))},u=async()=>{g="live",e.dataset.mode=g;try{let{createTunnel:p}=await import("./fe-chunk-JT7U6F5Q.js");i.dataset.used="1";let R=Math.min(devicePixelRatio||1,1.5);f=p({canvas:i,media:e.dataset.media,quality:"live",example:a,poster:r?{h:.5,cy:.42}:{h:.62,cy:.47,cx:.64}}),f.resize(t.clientWidth,t.clientHeight,R),await f.ready,d=!0}catch{L()}},v=new URLSearchParams(location.search).get("fe"),m=v==="live"||v==="probe"||v!=="film"&&!r&&X&&innerWidth>=900&&l&&!Z&&(navigator.hardwareConcurrency||8)>=6,x=()=>m?u():L();document.readyState==="complete"?setTimeout(x,50):addEventListener("load",()=>setTimeout(x,50),{once:!0});let M=()=>{let p=h?.pack;if(!p?.width)return;let R=r?{h:.5,cy:.42,cx:.5}:{h:.62,cy:.47,cx:.64},F=t.clientWidth,_=t.clientHeight,W=Math.max(F/p.width,_/p.height),q=p.width*W,U=p.height*W;n.style.setProperty("--lam-h",(R.h*U/_).toFixed(4)),n.style.setProperty("--lam-cy",((R.cy*U+(_-U)/2)/_).toFixed(4)),n.style.setProperty("--lam-cx",((R.cx*q+(F-q)/2)/F).toFixed(4))},E=k(".trip__point",e),T=k(".trip__progress i",e),A={},I=0,B=0,D=[],Q=p=>{if(!y)return;let R=b-c;c=Math.abs(R)<2e-4?b:c+R*(X?.14:.2);let F=xt(c);if(!d&&c===b&&g!=="live")return;if(d=!1,g==="frames"&&(h.draw(F),S?.update(F,h.pack),!n.dataset.fit&&h.pack?.width&&(n.dataset.fit=1,M())),g==="live"&&f){let P=p-I;if(I=p,P>0&&P<3e3&&v!=="live"){D.push(P),D.length>60&&D.shift();let N=at=>D.slice(-at).reduce((gt,vt)=>gt+vt,0)/at;(D.length>=20&&N(20)>60||D.length===60&&N(60)>34)&&(D.length=0,L())}g==="live"&&(c!==b||(B++&1)===0)&&f.frameAt(F,p/1e3)}let _=(1-Y((F-.02)/.06)).toFixed(3),W=c.toFixed(4);_!==A.pt&&(E.style.opacity=_,E.style.visibility=_==="0.000"?"hidden":"",A.pt=_),W!==A.bar&&T&&(T.style.transform=`scaleX(${W})`,A.bar=W);let q=Y((F-.965)/.03),U=q.toFixed(3);U!==A.cr&&(n.style.opacity=U,A.cr=U),q>.98!==n.hasAttribute("data-live")&&(n.toggleAttribute("data-live",q>.98),q>.98&&w.start());let nt=c*100;for(let P of o){let N=nt>=+P.dataset.from&&nt<+P.dataset.to;N!==P.hasAttribute("data-on")&&(P.toggleAttribute("data-on",N),P.inert=!N)}};J.ticker.add(p=>Q(p*1e3)),At(e),new ResizeObserver(()=>{h?.resize(),g==="frames"&&M(),f?.resize(t.clientWidth,t.clientHeight,Math.min(devicePixelRatio||1,1.5)),d=!0}).observe(t)}var z={names:"",phrase:"",city:"Madrid",date:"2021-05-14",time:"22:00",style:"noche"},Et=e=>{let t=e.replace(/\D/g,"").slice(0,8);return[t.slice(0,2),t.slice(2,4),t.slice(4)].filter(Boolean).join("/")},kt=e=>{let t=e.replace(/\D/g,"").slice(0,4);return t.length>2?`${t.slice(0,2)}:${t.slice(2)}`:t},Lt=e=>{let t=/^(\d{2})\/(\d{2})\/(\d{4})$/.exec(e);if(!t)return null;let[,i,n,a]=t.map(Number),o=new Date(Date.UTC(a,n-1,i));return a<1900||a>2100||o.getUTCMonth()!==n-1||o.getUTCDate()!==i?null:`${t[3]}-${t[2]}-${t[1]}`},St=e=>/^([01]\d|2[0-3]):[0-5]\d$/.test(e)?e:null;function Tt(e){let t=k("[data-form]",e),i=k("[data-preview]",e),n=k("[data-coords]",e);if(!t)return;let a=t.elements.city,o=a.value||"Madrid";a.innerHTML=st.map(c=>`<option${c[0]===o?" selected":""}>${c[0]}</option>`).join("");let r=t.elements.date,s=t.elements.time,l=0,w=()=>{l=0;let c=t.elements,d=Lt(r.value),y=St(s.value);r.setAttribute("aria-invalid",String(r.value.length===10&&!d)),s.setAttribute("aria-invalid",String(s.value.length===5&&!y)),Object.assign(z,{names:c.names.value.trim(),phrase:c.phrase.value.trim(),city:c.city.value,date:d||z.date,time:y||z.time,style:t.querySelector("[name=style]:checked")?.value||"noche"}),i.innerHTML=G({...z,names:z.names||"Vuestros nombres",cityName:z.city,id:"cp"});let g=ot(z.city);n.textContent=et(`${g[0]} \xB7 ${lt(g[1],g[2])} \xB7 ${ct(z.date)} \xB7 ${z.time}`)},b=(c,d)=>c.addEventListener("input",y=>{if(y.inputType?.startsWith("delete"))return;let g=d(c.value);g!==c.value&&(c.value=g)});b(r,Et),b(s,kt),t.addEventListener("input",()=>{l||(l=requestAnimationFrame(w))}),t.addEventListener("submit",c=>c.preventDefault()),C?w():new IntersectionObserver(([c],d)=>{c.isIntersecting&&(w(),d.disconnect())},{rootMargin:"600px"}).observe(e)}function Rt(e){let t=k("[data-total]",e),i=k("[data-buy]",e),n=k("[data-urge]",e),a=()=>{let r=k("input[name=format]:checked",e);if(!r)return;t.textContent=et(r.dataset.price),e.toggleAttribute("data-digital",r.hasAttribute("data-digital"));let s=new URL(e.dataset.base,location.href);r.value&&s.searchParams.set("variant",r.value),i.href=s.pathname+s.search};e.addEventListener("change",a),a();let o=e.dataset.deadline;if(/^\d{4}-\d{2}-\d{2}$/.test(o)){let r=new Date(o+"T23:59:59"),[s,l,w]=o.split("-");n.textContent=Date.now()>r?n.dataset.after:n.dataset.before.replace("[FECHA]",`${w}/${l}/${s}`)}}function $t(){let e=i=>{let n=i.dataset;i.innerHTML=G({names:n.names,phrase:n.phrase,cityName:n.city,date:n.date,time:n.time,style:n.style,id:"m"+Math.random().toString(36).slice(2,6)})};if(C)return $("[data-mini]").forEach(e);let t=new IntersectionObserver(i=>i.forEach(n=>{n.isIntersecting&&(e(n.target),t.unobserve(n.target))}),{rootMargin:"600px"});$("[data-mini]").forEach(i=>t.observe(i))}function It(){if(!C){if(!X){$(".moments").forEach(e=>{let t=$("[data-tilt]",e),i=0,n=()=>{i=0;let a=innerWidth/2;for(let o of t){let r=o.getBoundingClientRect(),s=Y((r.left+r.width/2-a)/innerWidth,-1,1);o.style.transform=`rotateY(${(-s*16).toFixed(2)}deg) scale(${(1-Math.abs(s)*.05).toFixed(3)})`}};e.addEventListener("scroll",()=>{i||(i=requestAnimationFrame(n))},{passive:!0}),n()});return}$("[data-tilt]").forEach(e=>{let t=0,i=0,n=0,a=0,o=0,r=0,s=0,l=0,w=c=>{let d=Math.min(.032,(c-l)/1e3);l=c,n+=(170*(o-t)-18*n)*d,t+=n*d,a+=(170*(r-i)-18*a)*d,i+=a*d,e.style.transform=`rotateX(${t.toFixed(2)}deg) rotateY(${i.toFixed(2)}deg)`,s=Math.abs(o-t)+Math.abs(r-i)+Math.abs(n)+Math.abs(a)>.02?requestAnimationFrame(w):0},b=()=>{s||(l=performance.now(),s=requestAnimationFrame(w))};e.addEventListener("pointermove",c=>{let d=e.getBoundingClientRect();r=((c.clientX-d.left)/d.width-.5)*12,o=-((c.clientY-d.top)/d.height-.5)*10,b()}),e.addEventListener("pointerleave",()=>{o=r=0,b()})})}}function Ct(){!X||C||$("[data-magnetic]").forEach(e=>{let t=0,i=0,n=0,a=0,o=0,r=()=>{t+=(n-t)*.2,i+=(a-i)*.2,e.style.translate=`${t.toFixed(2)}px ${i.toFixed(2)}px`,o=Math.abs(n-t)+Math.abs(a-i)>.05?requestAnimationFrame(r):0};e.addEventListener("pointermove",s=>{let l=e.getBoundingClientRect();n=(s.clientX-l.left-l.width/2)*.22,a=(s.clientY-l.top-l.height/2)*.3,o||(o=requestAnimationFrame(r))}),e.addEventListener("pointerleave",()=>{n=a=0,o||(o=requestAnimationFrame(r))})})}function Dt(e){let t=e.getContext("2d"),i,n,a,o=[],r=!1,s=.6,l=scrollY,w=()=>{a=Math.min(devicePixelRatio||1,2),i=e.clientWidth,n=e.clientHeight,e.width=i*a,e.height=n*a,t.setTransform(a,0,0,a,0,0),o=Array.from({length:Math.round(Math.min(700,i*n/1600))},()=>({a:Math.random()*6.283,z:Math.random(),g:Math.random()<.18})),C&&b(0)},b=d=>{t.fillStyle=C?"#000":"rgba(0,0,0,0.28)",t.fillRect(0,0,i,n);let y=i/2,g=n*.42,h=Math.hypot(i,n)*.6;for(let f of o){let S=f.z;if(f.z-=d,f.z<=.02){f.z+=1;continue}let L=h*Math.pow(S,2.2),u=h*Math.pow(f.z,2.2),v=1-f.z;t.strokeStyle=f.g?`rgba(212,175,99,${(.15+.8*(1-v)).toFixed(3)})`:`rgba(243,235,216,${(.12+.75*(1-v)).toFixed(3)})`,t.lineWidth=.5+1.4*f.z,t.beginPath(),t.moveTo(y+Math.cos(f.a)*L,g+Math.sin(f.a)*L),t.lineTo(y+Math.cos(f.a)*Math.min(u,L-.8),g+Math.sin(f.a)*Math.min(u,L-.8)),t.stroke()}},c=()=>{if(!r)return;let d=Math.abs(scrollY-l);l=scrollY,s+=(.6+Math.min(d,120)/12-s)*.08,b(.0016*s),requestAnimationFrame(c)};w(),new ResizeObserver(w).observe(e),C||new IntersectionObserver(([d])=>{let y=r;r=d.isIntersecting,r&&!y&&c()}).observe(e)}function _t(){if(C){$("[data-reveal]").forEach(t=>t.classList.add("is-in"));return}let e=new IntersectionObserver(t=>t.forEach(i=>{i.isIntersecting&&(i.target.classList.add("is-in"),e.unobserve(i.target))}),{threshold:.25});$("[data-reveal]").forEach(t=>e.observe(t))}function Pt(){let e=$('.pills a[href^="#"]'),t=new Map(e.map(n=>[n.getAttribute("href").slice(1),n])),i=new IntersectionObserver(n=>n.forEach(a=>{let o=t.get(a.target.id);o&&a.isIntersecting&&e.forEach(r=>r.setAttribute("aria-current",String(r===o)))}),{rootMargin:"-45% 0px -50% 0px"});t.forEach((n,a)=>{let o=document.getElementById(a);o&&i.observe(o)})}function zt(){let e=k("[data-bar]"),t=k("[data-creator]");!e||!t||new IntersectionObserver(([i])=>{e.toggleAttribute("data-away",i.isIntersecting)},{threshold:.12}).observe(t)}$("[data-trip]").forEach(Ft);$("[data-creator]").forEach(Tt);$("[data-formats]").forEach(Rt);$("[data-warp]").forEach(Dt);$t();It();Ct();_t();Pt();zt();addEventListener("load",()=>j.refresh());document.fonts?.ready.then(()=>j.refresh());

diff --git a/src/app.js b/src/app.js
@@ -76,7 +76,11 @@ function lamina(el) {
 // Six resting points (the headline of each stretch fully on screen). Inside the journey a wheel
 // gesture, a swipe or a key press glides to the next stop in that direction; the rest of the page
 // scrolls normally. Momentum and scrollbar drags settle on the nearest stop ahead.
-const STOPS = [0, 0.27, 0.5, 0.68, 0.85, 1];
+const STOPS = [0, 0.3, 0.55, 0.78, 1];
+// the journey opens inside the star tunnel: scroll progress p → time t of the film
+// (stops: tunnel 0.27 · Sun 0.50 · Earth 0.68 · sky 0.85 · lámina 1)
+const PT = [0.27, 0.5, 0.68, 0.85, 1];
+const tOf = (p) => { for (let i = 0; i < 4; i++) if (p <= STOPS[i + 1]) return PT[i] + (PT[i + 1] - PT[i]) * clamp((p - STOPS[i]) / (STOPS[i + 1] - STOPS[i])); return 1; };
 function stops(sec) {
   let busy = false, raf = 0, lastWheel = 0, lastAbs = 0, landed = 0, wheelDone = false, touch = null, lastY = scrollY, dir = 1, lastMove = 0;
   const top = () => sec.getBoundingClientRect().top + scrollY;
@@ -208,9 +212,10 @@ function trip(sec) {
     if (!visible) return;
     const d = target - p;
     p = Math.abs(d) < 0.0002 ? target : p + d * (fine ? 0.14 : 0.2);
+    const t = tOf(p);
     if (!dirty && p === target && mode !== 'live') return;
     dirty = false;
-    if (mode === 'frames') { player.draw(p); sunLive?.update(p, player.pack); if (!lam.dataset.fit && player.pack?.width) { lam.dataset.fit = 1; fitLam(); } }
+    if (mode === 'frames') { player.draw(t); sunLive?.update(t, player.pack); if (!lam.dataset.fit && player.pack?.width) { lam.dataset.fit = 1; fitLam(); } }
     if (mode === 'live' && scene) {
       // continuous performance guard: if any stretch of ~90 frames averages under ~30 fps, switch to the film
       const dt = time - lastFrame; lastFrame = time;
@@ -220,13 +225,13 @@ function trip(sec) {
         if ((ft.length >= 20 && avg(20) > 60) || (ft.length === 60 && avg(60) > 34)) { ft.length = 0; useFrames(); }
       }
       // at rest, render every other frame: the sun and the stars still breathe, the GPU rests
-      if (mode === 'live' && (p !== target || (idle++ & 1) === 0)) scene.frameAt(p, time / 1000);
+      if (mode === 'live' && (p !== target || (idle++ & 1) === 0)) scene.frameAt(t, time / 1000);
     }
     // write each value on the element that uses it (a variable on the stage would restyle every child)
-    const pt = (1 - clamp((p - 0.02) / 0.06)).toFixed(3), bar = p.toFixed(4);
+    const pt = (1 - clamp((t - 0.02) / 0.06)).toFixed(3), bar = p.toFixed(4);
     if (pt !== last.pt) { point.style.opacity = pt; point.style.visibility = pt === '0.000' ? 'hidden' : ''; last.pt = pt; }
     if (bar !== last.bar && progress) { progress.style.transform = `scaleX(${bar})`; last.bar = bar; }
-    const crisp = clamp((p - 0.965) / 0.03);
+    const crisp = clamp((t - 0.965) / 0.03);
     const cr = crisp.toFixed(3);
     if (cr !== last.cr) { lam.style.opacity = cr; last.cr = cr; }
     if (crisp > 0.98 !== lam.hasAttribute('data-live')) { lam.toggleAttribute('data-live', crisp > 0.98); if (crisp > 0.98) L.start(); }

diff --git a/theme/assets/fe.css b/theme/assets/fe.css
@@ -152,8 +152,7 @@ body.fe { margin: 0; background: var(--ink); color: var(--ivory); font: 400 1rem
 .lam__card::before { content: ''; position: absolute; inset: 0; z-index: 1; background: linear-gradient(115deg, rgba(255, 255, 255, 0.12), transparent 38%, transparent 62%, rgba(255, 255, 255, 0.05)); background-size: 220% 100%; background-position: calc(50% + var(--sheen, 0) * 40%) 0; pointer-events: none; mix-blend-mode: screen; }
 
 /* scroll length + pin */
-.fe-js .trip:not(.is-still) { height: 600svh; }
-@media (max-width: 899px) { .fe-js .trip:not(.is-still) { height: 560svh; } }
+.fe-js .trip:not(.is-still) { height: 300svh; } /* opens in the tunnel: three screens to the lámina */
 .fe-js .trip:not(.is-still) .trip__stage { position: sticky; top: 0; }
 .trip.is-still .trip__film, .trip.is-still .trip__point, .trip.is-still .panel { display: none; }
 .trip.is-still .trip__still { display: block; }
